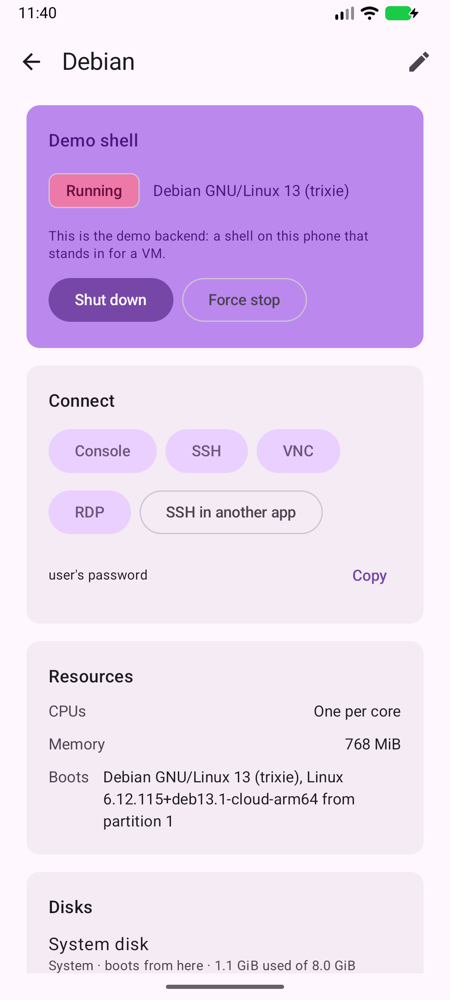
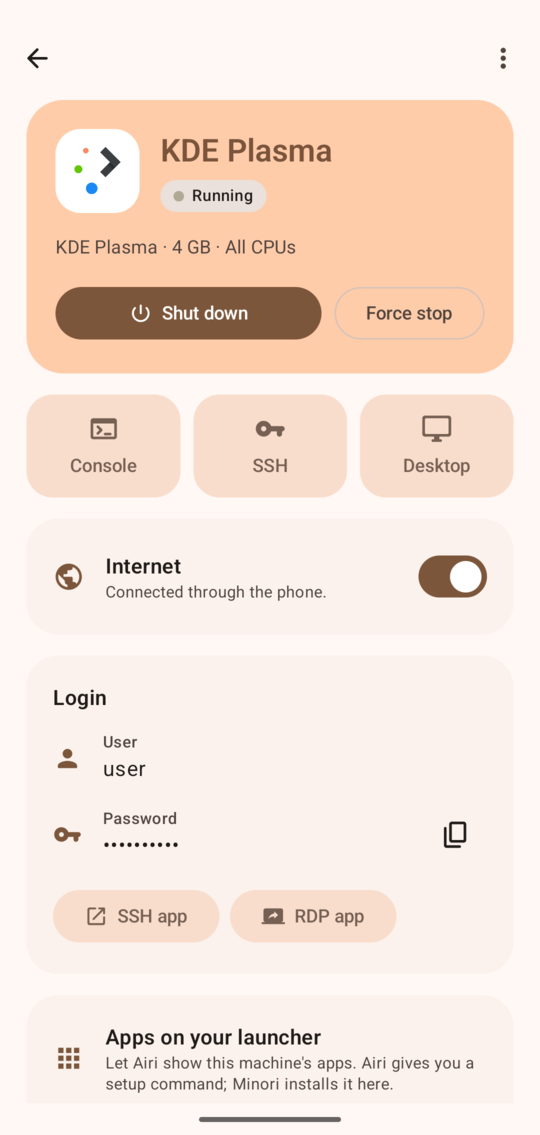
Show Minori on a Pixel in the README, and release 0.1.1
New screenshots from a Pixel 10 Pro running KDE Plasma under AVF, the
intro no longer says Minori never ran on a phone, and the roadmap says how
far each part got.

diff --git a/docs/roadmap.md b/docs/roadmap.md
@@ -1,28 +1,25 @@
 # Roadmap
 
-Minori is planned in versions, each shippable. This says what each one is and how much of it exists.
+Minori was planned in five parts. All five shipped together in 0.1.0; this says how far each one got.
 
-| Version | What                                               | State                                                                                       |
-| ------- | -------------------------------------------------- | ------------------------------------------------------------------------------------------- |
-| 0.1.0   | The hypervisor: setup, VMs, disks, ports, console, SSH, VNC, import and export | Built. Tested on the emulator with the demo backend and a QEMU guest; AVF itself never run |
-| 0.2.0   | Distro catalog                                     | Built: Debian 13, Ubuntu 24.04, Fedora 43 from official URLs with checksums; Arch and Windows explained. Downloads never run in the app |
-| 0.3.0   | Desktop and app templates                          | Built as first-boot provisioners (KDE Plasma, Chromium). Never run                          |
-| 0.4.0   | Asahi and Airi                                     | Minori's helper and links built and tested; Asahi's side not built. See [asahi-integration.md](asahi-integration.md) |
-| 0.5.0   | Termux backend                                     | Built behind the same interface. Debian tested end to end on the emulator; other distributions not run |
+| Part | What                                                                           | State |
+| ---- | ------------------------------------------------------------------------------ | ----- |
+| 1    | The hypervisor: setup, VMs, disks, ports, console, SSH, VNC, import and export | Released. Runs on a Pixel 10 Pro under AVF; guests reach the internet through the phone |
+| 2    | Distro catalog                                                                 | Released: Debian 13, Ubuntu 24.04, Fedora 43 from official URLs with checksums. Debian ran on the Pixel; Ubuntu and Fedora never ran |
+| 3    | Desktop and app templates                                                      | Released: KDE Plasma and Chromium, on Debian 13. KDE ran on the Pixel |
+| 4    | Asahi and Airi                                                                 | Minori's helper, library and Airi setup released; Asahi's Minori source built and tested on the emulator, not released yet. See [asahi-integration.md](asahi-integration.md) |
+| 5    | Termux backend                                                                 | Released. Debian tested end to end on the emulator; other distributions not run |
 
 ## Next, in order
 
-1. **Run it on a phone with AVF.** Boot the Debian template on a Pixel, check the console on AVF's UART, the agent
-   over vsock, published ports and `useNetwork`, and write down what Android 17 allows.
-2. **Guest internet without AVF's network.** `minori-agent` can carry packets over vsock from a TUN device in the
-   guest to a userspace NAT in the app. `saki-core`'s NAT, released as a library, already does this job for Saki.
-3. **The TypeScript library and Asahi's source picker**, as [asahi-integration.md](asahi-integration.md) describes.
+1. **Asahi's other sources**: the Pixel's own screen, and one Linux app from Airi or a Minori machine.
+2. **More of the store**: XFCE and GNOME on Debian 13, and single desktop apps such as Firefox, LibreOffice and GIMP.
+3. **Try the rest on a phone**: Ubuntu and Fedora, SSH and RDP apps on the phone itself, auto-start at boot.
 4. **ISO installs.** Minori knows where Debian, Ubuntu, Fedora and Alpine ISOs keep their installer kernels (only
    Alpine's has been booted, under QEMU). After an install, Minori should notice the installed system and switch the
    boot disk to it.
 5. **Arch Linux.** Arch Linux ARM ships a root filesystem archive, so Minori needs to build an ext4 disk from it.
-6. **Single Linux apps from Minori VMs**, with an Airi-style agent, once the rest works on a phone.
-7. **Termux, the rest.** Try Ubuntu, Arch, Alpine and Fedora userlands, and published ports for them.
+6. **Termux, the rest.** Try Ubuntu, Arch, Alpine and Fedora userlands, and published ports for them.
 
 ## Not planned
 

diff --git a/README.md b/README.md
@@ -22,11 +22,17 @@ It's for people who want a real Linux machine in their pocket: to run servers, t
 desktop VM around. Phones without AVF can keep Linux userlands through Termux instead, clearly labelled as not
 being VMs.
 
-<p align="center"><img src="docs/screenshots/machine.png" alt="A machine's page in Minori, on the Android emulator" width="320"></p>
+<p align="center">
+  <img src="docs/screenshots/machines.png" alt="Minori's machine list with a KDE Plasma machine running" width="200">
+  <img src="docs/screenshots/store.png" alt="Minori's store, with Debian 13 featured above Ubuntu and Fedora" width="200">
+  <img src="docs/screenshots/store-item.png" alt="The KDE Plasma item in the store" width="200">
+  <img src="docs/screenshots/machine.png" alt="A running machine's page: console, SSH, desktop, internet and login" width="200">
+</p>
+<p align="center"><img src="docs/screenshots/desktop.png" alt="KDE Plasma's desktop and menu in Minori's own viewer, turned sideways" width="640"></p>
+<p align="center"><sub>All on a Pixel 10 Pro, with Debian 13 and KDE Plasma running under AVF.</sub></p>
 
-This is early software, and its main part has **not run on a phone yet**: no device with AVF was available while it
-was written, so every VM shown here ran on the emulator's demo backend. [What has been tested](#what-has-been-tested)
-says exactly what ran.
+This is early software. It has run on one phone, a Pixel 10 Pro; Ubuntu, Fedora and much of the rest have only run
+on the emulator against real guests. [What has been tested](#what-has-been-tested) says exactly what ran.
 
 ## What you need
 
@@ -45,7 +51,7 @@ Download the APK from [Releases](https://github.com/wonderhoy-labs/minori/releas
 install it with `adb`:
 
 ```bash
-adb install -r minori-v0.1.0.apk
+adb install -r minori-v0.1.1.apk
 ```
 
 Then open Minori; its setup screen grants the two permissions virtual machines need, with Shizuku or a command for
@@ -133,7 +139,7 @@ sparse raw disk, extract a bootable kernel and initrd, write cloud-init seeds, a
 archives. Add it by the release tag:
 
 ```toml
-minori-core = { git = "https://github.com/wonderhoy-labs/minori", tag = "v0.1.0" }
+minori-core = { git = "https://github.com/wonderhoy-labs/minori", tag = "v0.1.1" }
 ```
 
 ```rust
@@ -155,7 +161,7 @@ machines, start and stop them, read their ports, and open a guest port, the cons
 draws a machine's desktop on a canvas, with mouse and keyboard. It has no dependencies; add it by the release's URL:
 
 ```json
-"@wonderhoy-labs/minori": "https://github.com/wonderhoy-labs/minori/releases/download/v0.1.0/wonderhoy-labs-minori-0.1.0.tgz"
+"@wonderhoy-labs/minori": "https://github.com/wonderhoy-labs/minori/releases/download/v0.1.1/wonderhoy-labs-minori-0.1.1.tgz"
 ```
 
 ```ts
@@ -206,6 +212,7 @@ debug build's demo backend pointed at real guests: Debian 13 in QEMU, and Debian
 | AVF: Debian 13 boots, console login, the agent comes up from cloud-init, SSH over vsock           | Pixel 10 Pro                                | Pass   |
 | **KDE Plasma from the store on AVF**: download, first boot, internet through Minori (apt fetched about 1,400 packages over HTTPS), desktop ready in about 14 minutes | Pixel 10 Pro, on Wi-Fi | Pass |
 | That machine's desktop over VNC, and Remote Desktop with FreeRDP, both through Minori's helper and agent | Pixel 10 Pro, from the Mac over adb | Plasma's desktop with the right date and time |
+| Minori's own desktop viewer on that machine: picture, taps, KDE's menu, sideways                  | Pixel 10 Pro                                | Pass after a fix; 0.1.0's viewer closed at once with "Operation not supported on transport endpoint" |
 
 **Never run:**
 
